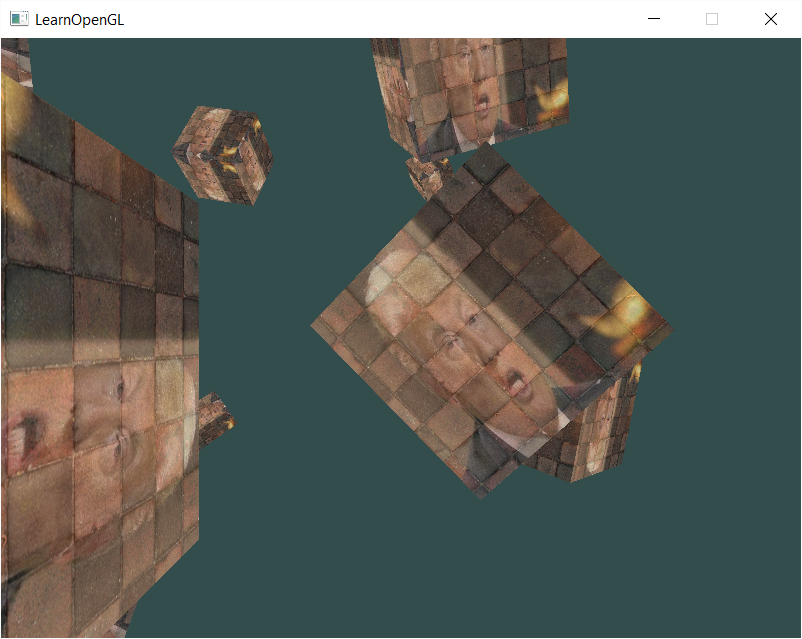
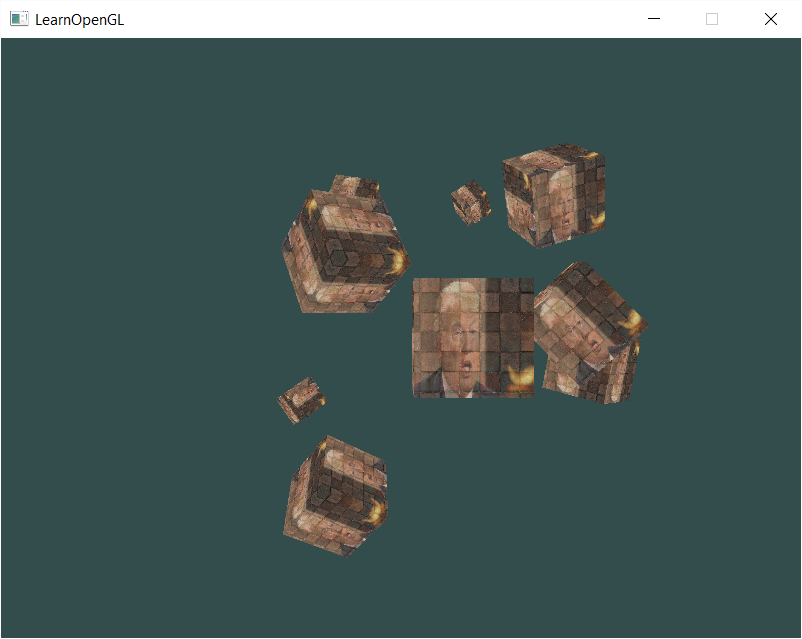
Pseudo-parallel input handling

diff --git a/OpenGlFirst/Test.cpp b/OpenGlFirst/Test.cpp
@@ -21,6 +21,9 @@
 // Function prototypes
 void key_callback(GLFWwindow* window, int key, int scancode, int action, int mode);
 
+// For pseudo-parrallel input handling
+void do_movement();
+
 // Window dimensions
 const GLuint WIDTH = 800, HEIGHT = 600;
 
@@ -30,6 +33,10 @@ const GLuint WIDTH = 800, HEIGHT = 600;
 	glm::vec3 cameraPos = glm::vec3(0.f, 0.f, 3.f);
 	glm::vec3 cameraFront = glm::vec3(0.f, 0.f, -1.f);
 	glm::vec3 cameraUp = glm::vec3(0.f, 1.f, 0.f);
+
+// For input handling
+	bool keys[1024];
+
 
 // The MAIN function, from here we start the application and run the game loop
 int main()
@@ -226,6 +233,7 @@ int main()
     {
         // Check if any events have been activiated (key pressed, mouse moved etc.) and call corresponding response functions
         glfwPollEvents();
+		do_movement();
 
         // Render
         // Clear the colorbuffer
@@ -238,10 +246,6 @@ int main()
 	GLint viewLoc = glGetUniformLocation(ourShader.Program, "view");
 	GLint projLoc = glGetUniformLocation(ourShader.Program, "projection");
 	
-		// Create rotation around y axis
-		GLfloat radius = 10.f;
-		GLfloat camX = sinf(glfwGetTime()) * radius;
-		GLfloat camZ = cosf(glfwGetTime()) * radius;
 		glm::mat4 view;
 		// Create moveable and controllable point viewer
 		view = glm::lookAt(
@@ -299,14 +303,25 @@ void key_callback(GLFWwindow* window, int key, int scancode, int action, int mod
 {
     if (key == GLFW_KEY_ESCAPE && action == GLFW_PRESS)
         glfwSetWindowShouldClose(window, GL_TRUE);
+    if (key >= 0 && key < 1024)
+    {
+        if (action == GLFW_PRESS)
+            keys[key] = true;
+        else if (action == GLFW_RELEASE)
+            keys[key] = false;
+    }
+}
 
-	GLfloat cameraSpeed = 0.05f;
-	if (key == GLFW_KEY_W)
-		cameraPos += cameraSpeed + cameraFront;
-	if (key == GLFW_KEY_S)
-		cameraPos -= cameraSpeed + cameraFront;
-	if (key == GLFW_KEY_A)
-		cameraPos -= glm::normalize(glm::cross(cameraFront, cameraUp)) * cameraSpeed * 10.f;
-	if (key == GLFW_KEY_D)
-		cameraPos += glm::normalize(glm::cross(cameraFront, cameraUp)) * cameraSpeed * 10.f;
+void do_movement()
+{
+    // Camera controls
+    GLfloat cameraSpeed = 0.01f;
+    if (keys[GLFW_KEY_W])
+        cameraPos += cameraSpeed * cameraFront;
+    if (keys[GLFW_KEY_S])
+        cameraPos -= cameraSpeed * cameraFront;
+    if (keys[GLFW_KEY_A])
+        cameraPos -= glm::normalize(glm::cross(cameraFront, cameraUp)) * cameraSpeed;
+    if (keys[GLFW_KEY_D])
+        cameraPos += glm::normalize(glm::cross(cameraFront, cameraUp)) * cameraSpeed;
 }
